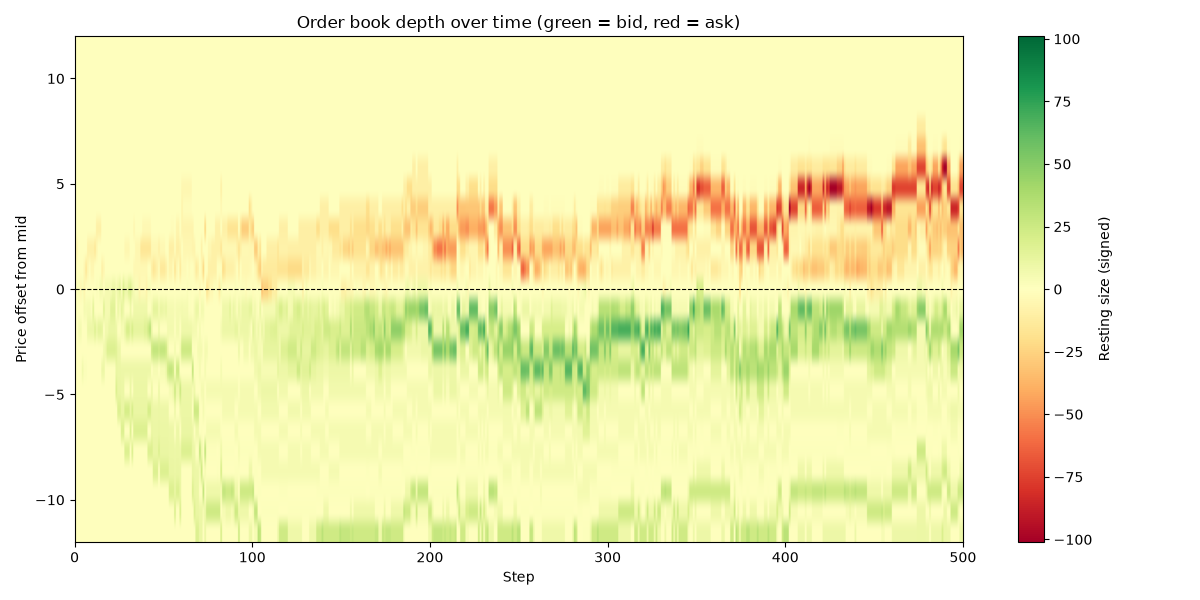
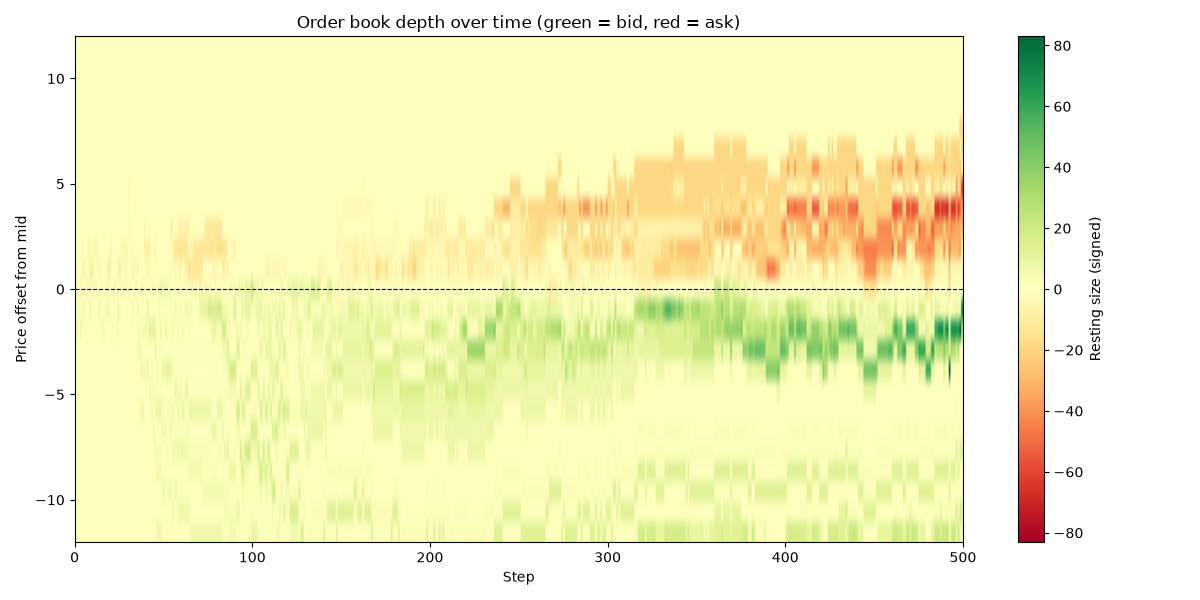
mm investigation

diff --git a/analysis/compare_strategies.py b/analysis/compare_strategies.py
@@ -1,0 +1,112 @@
+# analysis/compare_strategies.py
+"""
+Runs the simulation across many random seeds and statistically compares
+MarketMaker vs ImbalanceTrader performance (mark-to-market P&L), instead
+of judging either agent off a single anecdotal run.
+
+Run (from the project root): python -m analysis.compare_strategies
+"""
+
+import contextlib
+import io
+import random
+import statistics
+from dataclasses import dataclass
+from typing import List
+
+import matplotlib.pyplot as plt
+from matplotlib.figure import Figure
+
+from lob.book import LimitOrderBook
+from simulator.random_flow import simulate_random_flow
+from simulator.market_maker import MarketMaker
+from simulator.imbalance_trader import ImbalanceTrader
+
+
+@dataclass
+class RunResult:
+    seed: int
+    market_maker_pnl: float
+    imbalance_trader_pnl: float
+
+
+def run_once(seed: int, steps: int = 500) -> RunResult:
+    """Run one full simulation under a given seed and return each agent's
+    final mark-to-market P&L. Reseeding at the start makes every run fully
+    reproducible regardless of how many other runs happened before it."""
+    random.seed(seed)
+
+    book = LimitOrderBook()
+    mm = MarketMaker(spread=2, size=5, max_inventory=50)
+    it = ImbalanceTrader(threshold=0.4, size=5, max_inventory=50)
+
+    with contextlib.redirect_stdout(io.StringIO()):  # simulate_random_flow prints progress; silence it here
+        simulate_random_flow(book, steps=steps, sleep=0, market_maker=mm, imbalance_trader=it)
+
+    return RunResult(
+        seed=seed,
+        market_maker_pnl=mm.mark_to_market(book),
+        imbalance_trader_pnl=it.mark_to_market(book),
+    )
+
+
+def run_sweep(n_runs: int = 200, steps: int = 500) -> List[RunResult]:
+    return [run_once(seed, steps) for seed in range(n_runs)]
+
+
+def summarize(results: List[RunResult]) -> None:
+    mm_pnls = [r.market_maker_pnl for r in results]
+    it_pnls = [r.imbalance_trader_pnl for r in results]
+
+    def report(name: str, pnls: List[float]) -> None:
+        wins = sum(1 for p in pnls if p > 0)
+        print(
+            f"{name:16s} mean={statistics.mean(pnls):9.2f}  "
+            f"stdev={statistics.stdev(pnls):8.2f}  "
+            f"min={min(pnls):9.2f}  max={max(pnls):9.2f}  "
+            f"profitable={wins}/{len(pnls)} ({wins / len(pnls) * 100:5.1f}%)"
+        )
+
+    print(f"{len(results)} runs, {results[0].seed}-{results[-1].seed}\n")
+    report("MarketMaker", mm_pnls)
+    report("ImbalanceTrader", it_pnls)
+
+    mm_wins = sum(1 for r in results if r.market_maker_pnl > r.imbalance_trader_pnl)
+    print(
+        f"\nMarketMaker beat ImbalanceTrader head-to-head in {mm_wins}/{len(results)} runs "
+        f"({mm_wins / len(results) * 100:.1f}%)"
+    )
+
+
+def plot(results: List[RunResult], save_path: str = "strategy_comparison.png") -> Figure:
+    mm_pnls = [r.market_maker_pnl for r in results]
+    it_pnls = [r.imbalance_trader_pnl for r in results]
+
+    fig, axes = plt.subplots(1, 2, figsize=(12, 5))
+
+    axes[0].hist(mm_pnls, bins=30, alpha=0.6, label="MarketMaker", color="tab:green")
+    axes[0].hist(it_pnls, bins=30, alpha=0.6, label="ImbalanceTrader", color="tab:red")
+    axes[0].axvline(0, color="black", linewidth=0.8, linestyle="--")
+    axes[0].set_xlabel("Mark-to-market P&L")
+    axes[0].set_ylabel("Number of runs")
+    axes[0].set_title("P&L distribution across seeds")
+    axes[0].legend()
+
+    axes[1].scatter(mm_pnls, it_pnls, alpha=0.5, s=15)
+    lo = min(mm_pnls + it_pnls)
+    hi = max(mm_pnls + it_pnls)
+    axes[1].plot([lo, hi], [lo, hi], color="gray", linewidth=0.8, linestyle="--")  # y = x reference
+    axes[1].set_xlabel("MarketMaker P&L")
+    axes[1].set_ylabel("ImbalanceTrader P&L")
+    axes[1].set_title("Per-seed P&L: MarketMaker vs ImbalanceTrader")
+
+    fig.tight_layout()
+    fig.savefig(save_path)
+    return fig
+
+
+if __name__ == "__main__":
+    results = run_sweep(n_runs=200, steps=500)
+    summarize(results)
+    plot(results)
+    print("\nSaved strategy_comparison.png")

diff --git a/analysis/tune_market_maker.py b/analysis/tune_market_maker.py
@@ -1,0 +1,113 @@
+# analysis/tune_market_maker.py
+"""
+compare_strategies.py found MarketMaker losing to ImbalanceTrader across
+200 seeds. This sweeps MarketMaker's spread and max_inventory across a
+grid (ImbalanceTrader held fixed, same config as the original comparison)
+to check whether that's a tuning problem or something structural to this
+order flow model.
+
+Run (from the project root): python -m analysis.tune_market_maker
+"""
+
+import contextlib
+import io
+import random
+import statistics
+from dataclasses import dataclass
+from typing import List, Sequence
+
+import numpy as np
+import matplotlib.pyplot as plt
+from matplotlib.figure import Figure
+
+from lob.book import LimitOrderBook
+from simulator.random_flow import simulate_random_flow
+from simulator.market_maker import MarketMaker
+from simulator.imbalance_trader import ImbalanceTrader
+
+SPREADS: List[float] = [1, 2, 3, 4, 6, 8]
+MAX_INVENTORIES: List[int] = [10, 20, 50, 100, 200]
+N_SEEDS = 50
+STEPS = 500
+
+
+@dataclass
+class SweepResult:
+    spread: float
+    max_inventory: int
+    mean_pnl: float
+    win_rate: float
+
+
+def run_one(spread: float, max_inventory: int, seed: int, steps: int = STEPS) -> float:
+    """One simulation under one (spread, max_inventory) config and one seed;
+    returns MarketMaker's final mark-to-market P&L."""
+    random.seed(seed)
+
+    book = LimitOrderBook()
+    mm = MarketMaker(spread=spread, size=5, max_inventory=max_inventory)
+    it = ImbalanceTrader(threshold=0.4, size=5, max_inventory=50)  # held fixed throughout
+
+    with contextlib.redirect_stdout(io.StringIO()):
+        simulate_random_flow(book, steps=steps, sleep=0, market_maker=mm, imbalance_trader=it)
+
+    return mm.mark_to_market(book)
+
+
+def sweep(
+    spreads: Sequence[float] = SPREADS,
+    max_inventories: Sequence[int] = MAX_INVENTORIES,
+    n_seeds: int = N_SEEDS,
+) -> List[SweepResult]:
+    results = []
+    for spread in spreads:
+        for max_inv in max_inventories:
+            pnls = [run_one(spread, max_inv, seed) for seed in range(n_seeds)]
+            wins = sum(1 for p in pnls if p > 0)
+            results.append(SweepResult(spread, max_inv, statistics.mean(pnls), wins / len(pnls)))
+    return results
+
+
+def summarize(results: List[SweepResult]) -> None:
+    best = max(results, key=lambda r: r.mean_pnl)
+    for r in results:
+        marker = "  <-- best" if r is best else ""
+        print(
+            f"spread={r.spread:4.1f}  max_inventory={r.max_inventory:4d}  "
+            f"mean_pnl={r.mean_pnl:9.2f}  win_rate={r.win_rate * 100:5.1f}%{marker}"
+        )
+    print(f"\nBest: spread={best.spread}, max_inventory={best.max_inventory}, mean_pnl={best.mean_pnl:.2f}")
+
+
+def plot(
+    results: List[SweepResult],
+    spreads: Sequence[float] = SPREADS,
+    max_inventories: Sequence[int] = MAX_INVENTORIES,
+    save_path: str = "market_maker_tuning.png",
+) -> Figure:
+    by_key = {(r.spread, r.max_inventory): r.mean_pnl for r in results}
+    grid = np.array([[by_key[(s, m)] for m in max_inventories] for s in spreads])
+
+    fig, ax = plt.subplots(figsize=(8, 6))
+    vmax = np.abs(grid).max() or 1
+    im = ax.imshow(grid, aspect="auto", origin="lower", cmap="RdYlGn", vmin=-vmax, vmax=vmax)
+
+    ax.set_xticks(range(len(max_inventories)))
+    ax.set_xticklabels([str(m) for m in max_inventories])
+    ax.set_yticks(range(len(spreads)))
+    ax.set_yticklabels([str(s) for s in spreads])
+    ax.set_xlabel("max_inventory")
+    ax.set_ylabel("spread")
+    ax.set_title("MarketMaker mean P&L by (spread, max_inventory)")
+    fig.colorbar(im, ax=ax, label="Mean P&L")
+    fig.tight_layout()
+
+    fig.savefig(save_path)
+    return fig
+
+
+if __name__ == "__main__":
+    results = sweep()
+    summarize(results)
+    plot(results)
+    print("\nSaved market_maker_tuning.png")

diff --git a/tests/test_compare_strategies.py b/tests/test_compare_strategies.py
@@ -1,0 +1,40 @@
+# tests/test_compare_strategies.py
+"""Unit tests for analysis.compare_strategies."""
+
+from analysis.compare_strategies import RunResult, run_once, run_sweep, summarize
+
+
+def test_run_once_is_deterministic_for_a_given_seed():
+    result_a = run_once(seed=1, steps=20)
+    result_b = run_once(seed=1, steps=20)
+
+    assert result_a.market_maker_pnl == result_b.market_maker_pnl
+    assert result_a.imbalance_trader_pnl == result_b.imbalance_trader_pnl
+
+
+def test_different_seeds_can_produce_different_results():
+    result_a = run_once(seed=1, steps=20)
+    result_b = run_once(seed=2, steps=20)
+
+    # Not a strict guarantee for any two arbitrary seeds, but true for this
+    # seed pair under this setup - swap the seeds if this ever flakes.
+    assert (result_a.market_maker_pnl, result_a.imbalance_trader_pnl) != (
+        result_b.market_maker_pnl,
+        result_b.imbalance_trader_pnl,
+    )
+
+
+def test_run_sweep_returns_one_result_per_seed():
+    results = run_sweep(n_runs=5, steps=20)
+
+    assert len(results) == 5
+    assert [r.seed for r in results] == [0, 1, 2, 3, 4]
+    assert all(isinstance(r, RunResult) for r in results)
+
+
+def test_summarize_does_not_crash_on_a_small_sweep(capsys):
+    results = run_sweep(n_runs=3, steps=20)
+
+    summarize(results)
+
+    assert "MarketMaker" in capsys.readouterr().out

diff --git a/tests/test_tune_market_maker.py b/tests/test_tune_market_maker.py
@@ -1,0 +1,33 @@
+# tests/test_tune_market_maker.py
+"""Unit tests for analysis.tune_market_maker."""
+
+from analysis.tune_market_maker import SweepResult, run_one, summarize, sweep
+
+
+def test_run_one_is_deterministic_for_a_given_seed():
+    pnl_a = run_one(spread=2, max_inventory=50, seed=1, steps=20)
+    pnl_b = run_one(spread=2, max_inventory=50, seed=1, steps=20)
+
+    assert pnl_a == pnl_b
+
+
+def test_sweep_returns_one_result_per_grid_cell():
+    spreads = [1, 2]
+    max_inventories = [10, 50, 100]
+
+    results = sweep(spreads=spreads, max_inventories=max_inventories, n_seeds=3)
+
+    assert len(results) == len(spreads) * len(max_inventories)
+    assert all(isinstance(r, SweepResult) for r in results)
+
+    seen = {(r.spread, r.max_inventory) for r in results}
+    expected = {(s, m) for s in spreads for m in max_inventories}
+    assert seen == expected
+
+
+def test_summarize_does_not_crash_on_a_small_sweep(capsys):
+    results = sweep(spreads=[1, 2], max_inventories=[10, 50], n_seeds=3)
+
+    summarize(results)
+
+    assert "Best:" in capsys.readouterr().out

diff --git a/README.md b/README.md
@@ -14,6 +14,8 @@ A limit order book (LOB) simulator written from scratch in Python — the matchi
 - **Depth heatmap** (`metrics/depth_history.py`) — records resting size at every price level relative to mid, each step, and renders it as an L2-style heatmap over time.
 - **Tests** (`tests/`) — pytest unit tests covering matching, price-time priority, partial fills, cancellation, and both agents; mypy runs in CI alongside pytest.
 - **Benchmarks** (`benchmarks/`) — measures the heap-based best bid/ask lookup against the naive scan it replaced.
+- **Strategy comparison** (`analysis/compare_strategies.py`) — runs the simulation across many random seeds and statistically compares `MarketMaker` vs `ImbalanceTrader` P&L, instead of judging either off a single run.
+- **Market maker tuning** (`analysis/tune_market_maker.py`) — sweeps `MarketMaker`'s `spread`/`max_inventory` across a grid to check whether its underperformance in the strategy comparison is a tuning problem or something structural.
 
 ## Project structure
 
@@ -32,9 +34,14 @@ market_sim/
 │   ├── test_book.py             # matching engine tests
 │   ├── test_market_maker.py
 │   ├── test_imbalance_trader.py
-│   └── test_depth_history.py
+│   ├── test_depth_history.py
+│   ├── test_compare_strategies.py
+│   └── test_tune_market_maker.py
 ├── benchmarks/
 │   └── bench_best_price.py      # best bid/ask lookup benchmark
+├── analysis/
+│   ├── compare_strategies.py    # multi-seed strategy comparison
+│   └── tune_market_maker.py     # market maker parameter sweep
 ├── main.py                       # demo entry point
 ├── requirements.txt
 └── diary.md                      # dev log
@@ -55,7 +62,7 @@ python main.py
 
 ```bash
 python -m pytest -v
-python -m mypy lob simulator metrics --ignore-missing-imports --explicit-package-bases
+python -m mypy lob simulator metrics analysis --ignore-missing-imports --explicit-package-bases
 ```
 
 ## How the order book works
@@ -88,6 +95,43 @@ python benchmarks/bench_best_price.py
    10000      475.84ms        0.24ms   1987.7x
    50000     2864.49ms        0.27ms  10423.9x
 ```
+
+## Strategy comparison
+
+A single simulation run only tells you what happened in one random scenario, not whether an agent has a real edge. `analysis/compare_strategies.py` runs the simulation across 200 independent random seeds and compares `MarketMaker` vs `ImbalanceTrader` on final mark-to-market P&L.
+
+```bash
+python -m analysis.compare_strategies
+```
+
+```
+200 runs, 0-199
+
+MarketMaker      mean=    27.24  stdev=  390.58  min= -1929.00  max=   619.00  profitable=125/200 ( 62.5%)
+ImbalanceTrader  mean=   378.03  stdev=  438.27  min=  -538.53  max= 2144.81  profitable=164/200 ( 82.0%)
+
+MarketMaker beat ImbalanceTrader head-to-head in 71/200 runs (35.5%)
+```
+
+Across this random-flow model, `ImbalanceTrader` comes out ahead on every measure — higher mean P&L, higher win rate, and it beats `MarketMaker` head-to-head in the majority of seeds. `MarketMaker` also has a much fatter downside tail (min of -1929 vs -538), consistent with it sometimes accumulating a large inventory position right as the price moves against it. This says more about how this particular random order flow behaves than it does about market making in general — a real market maker's edge shows up against genuine adverse-selection dynamics that this simplified flow doesn't fully capture — but it's a real, reproducible result rather than an anecdote from one run.
+
+![Strategy comparison](strategy_comparison.png)
+
+### Is that a tuning problem or something structural?
+
+`analysis/tune_market_maker.py` sweeps `MarketMaker`'s `spread` and `max_inventory` across a grid (`ImbalanceTrader` held fixed, same config as above) to check.
+
+```bash
+python -m analysis.tune_market_maker
+```
+
+![Market maker tuning](market_maker_tuning.png)
+
+`max_inventory` dominates the picture: `max_inventory=200` is the best or near-best choice at almost every spread tested, and the best configuration found (`spread=2, max_inventory=200`, mean P&L ≈ 322) more than triples the original baseline's mean (≈ 90 over this sweep's 50-seed sample). The original `max_inventory=50` default was simply too conservative — it stops `MarketMaker` from quoting one side too early during a trending run, missing out on further spread capture for the rest of that run.
+
+That's a real improvement, but it still doesn't fully close the gap to `ImbalanceTrader`'s ≈ 378 mean from the comparison above — so the underperformance looks like it's *partly* a tuning issue (fixable, and now mostly fixed) and *partly* structural: within the range tested, a strategy that follows the book's imbalance keeps an edge over one that provides liquidity passively, at least in this random-walk order flow model, which doesn't model the genuine adverse selection a real market maker has to price against.
+
+There's also a striking red "danger zone" in the heatmap — mid-range `max_inventory` (50–100) combined with a wide `spread` (6–8) performs *worse* than a tight spread at the same inventory cap, dropping as low as −227 mean P&L. The likely mechanism: `MarketMaker`'s quote skew scales with `spread`, so a wide spread means large skew swings as inventory approaches its cap — a moderate cap gets pinned there often enough for that miscalibration to bite, whereas a low cap bounds the damage and a high cap rarely gets pinned at all. That's a hypothesis based on the pattern, not fully verified — a good candidate for further digging.
 
 ## Example output
 

diff --git a/diary.md b/diary.md
@@ -72,3 +72,11 @@ Added `benchmarks/bench_best_price.py` to actually measure the claim instead of 
 Added inline comments explaining the benchmark script step by step (user request, for their own learning).
 
 Added `metrics/depth_history.py` — `DepthHistory` records a full per-price-level depth snapshot every step (not just scalar totals like `Metrics` does), binned as an *offset from mid* rather than absolute price so it stays meaningful as mid drifts over a random-walk run. Bids stored as positive size, asks as negative, so `plot()` can render one heatmap (time x price-offset) with a diverging green/red colormap instead of needing two separate charts. Wired into `simulate_random_flow` as an optional `depth_history` param, `main.py` now saves it to `depth_heatmap.png`. Result actually shows real structure — liquidity bands visibly widening out as the simulation progresses. Added `tests/test_depth_history.py` (4 tests: sign convention, offset-range clipping, same-price-level summing, one frame per update call). 37 tests total, all passing, mypy clean.
+
+Bug: `self._bid_heap` had gone missing from `LimitOrderBook.__init__` (only `_ask_heap` remained) — `AttributeError` on the very first buy order. Restored it. Worth remembering: this would've been caught immediately by `python -m pytest` (most of `test_book.py` exercises `_match_buy`) — running tests before `python main.py` catches these faster.
+
+Tried an animated version of the depth heatmap (GIF, revealing left to right over the run). Got it working but the first attempt produced an 11MB file — way too big to commit. Got it down to ~600KB with lower dpi/fewer frames, then hit a Pillow/Tkinter DLL import error in the test environment (`_imagingtk` blocked by an Application Control policy) while adding a test for it. Decided it wasn't worth the fragility for the payoff — reverted the whole thing back to the last commit. Nothing was ever pushed, so no cleanup needed on GitHub.
+
+Added `analysis/compare_strategies.py` — runs the simulation across 200 independent random seeds (reseeding `random` at the start of each run keeps every seed reproducible regardless of run order) and compares `MarketMaker` vs `ImbalanceTrader` on final mark-to-market P&L, instead of judging either off one anecdotal run. Real result: `ImbalanceTrader` wins on every measure over this random-flow model — mean +378 vs +27, 82% vs 62.5% profitable, and it beats `MarketMaker` head-to-head in 64.5% of seeds. `MarketMaker` also has a much fatter downside tail. Wrote this up honestly in the README rather than just showing the numbers — the result says more about this simplified order flow than about market making in general, since it doesn't capture genuine adverse selection. Added `tests/test_compare_strategies.py` (4 tests: same-seed determinism, different seeds differ, sweep returns one result per seed, summarize doesn't crash). Had to run it via `python -m analysis.compare_strategies` (not `python analysis/compare_strategies.py` directly) for the same sys.path reason as pytest. 41 tests total, all passing, mypy clean across 7 source files (added `analysis` to the CI mypy step too).
+
+Followed up on *why* MarketMaker loses: added `analysis/tune_market_maker.py`, sweeping `spread` x `max_inventory` (6x5 grid, 50 seeds each, ImbalanceTrader held fixed) — 1500 runs, ~22s. Real finding: `max_inventory` dominates. The default (`max_inventory=50`) was too conservative — it stops quoting one side too early in a trending run. Best config (`spread=2, max_inventory=200`) more than triples the baseline mean P&L (90 -> 322 over this sweep's sample), but still doesn't fully close the gap to ImbalanceTrader's ~378 — so the underperformance looks partly tuning, partly structural to this order flow model. Also found a striking non-monotonic "danger zone": mid-range max_inventory (50-100) combined with wide spread (6-8) is *worse* than tight spread at the same cap (down to -227 mean P&L) — hypothesis is that wide spread means bigger skew swings, and a moderate inventory cap gets pinned there often enough for that miscalibration to actually hurt, while a low cap bounds the damage and a high cap rarely gets pinned. Flagged this as a hypothesis in the README, not a verified conclusion - worth digging into further if there's time. mypy caught a real bug while writing this: `set_xticklabels`/`set_yticklabels` need strings, was passing raw ints/floats (worked at runtime since matplotlib silently coerces them, but violated the type contract) - fixed. Added `tests/test_tune_market_maker.py` (3 tests). 44 tests total, all passing, mypy clean across 8 source files.
